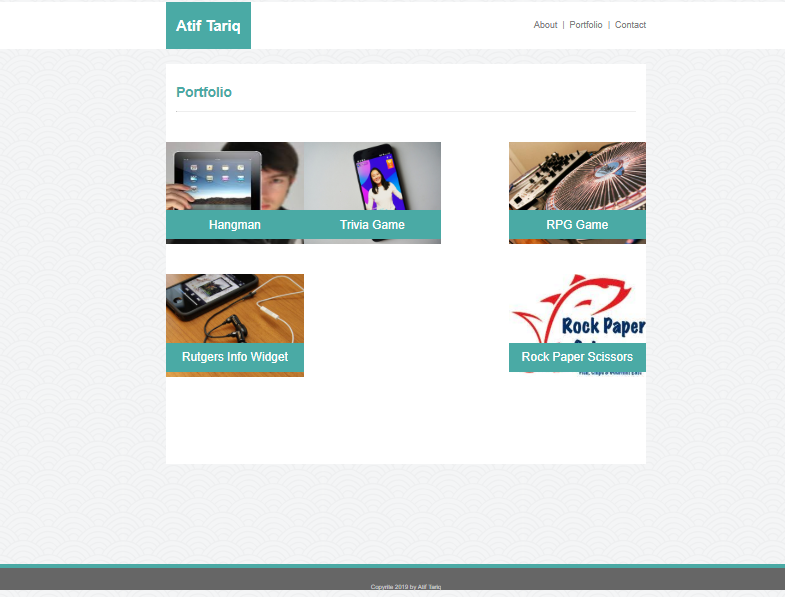
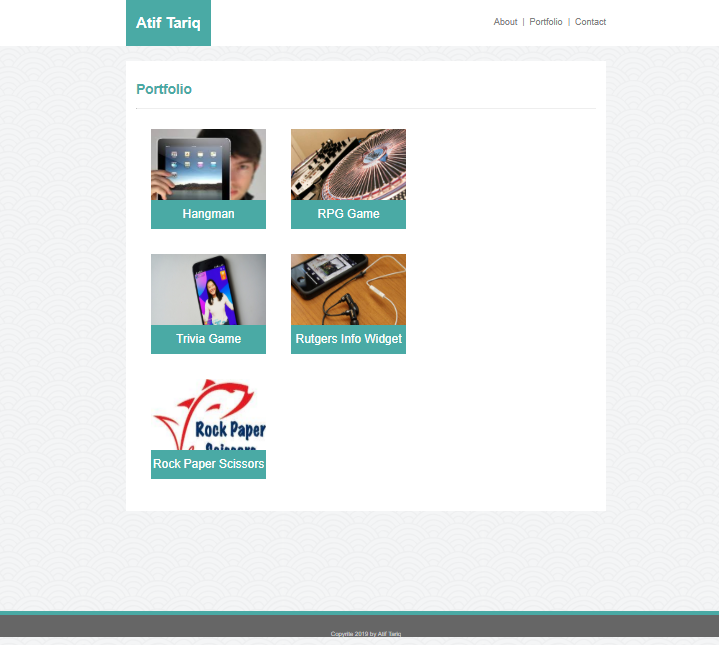
Modified portfolio.html and style,css

diff --git a/portfolio.html b/portfolio.html
@@ -2,7 +2,7 @@
 <html lang="en">
 <head>
 	<title>Atif Basic Portfolio - Portfolio</title>
-    <link rel="stylesheet" type="text/css" href="C:\Users\Hassan\Desktop\Basic-Portfolio\assets\css\style.css">
+
     <link rel="stylesheet" type="text/css" href="assets/css/style.css">
 	
 	<meta name="viewport" content="width=device-width, initial-scale=1, maximum-scale=1">
@@ -52,55 +52,56 @@
                     <hr class="hr-content">  
                     </div>
 
-                    <div class="portfolio-item portfolio-item__left">
-						<a href="http://naptoons.tumblr.com" target="_blank">
-						<img class="portfolio-pic portfolio-link" src="assets/images/hangman.jpg" alt="cartoons">
-						</a>
-						<div class="portfolio-title">
-							<h2 class="h2__portfolio-title">Hangman</h2>
+<!----------------"PORTFOLIO_Group"----------------------> 
+					<div class="portfolio-group"> 
+						<div class="portfolio-item portfolio-item-left">
+							
+							<img class="portfolio-img" src="assets/images/hangman.jpg">
+							
+							<div class="portfolio-title">
+								<h2 class="h2__portfolio-title">Hangman</h2>
+							</div>
+						</div>
+
+						<div class="portfolio-item portfolio-item-right">
+							<img class="portfolio-img" src="assets/images/RPG GAME-1.jpg">
+							
+							<div class="portfolio-title">
+								<h2 class="h2__portfolio-title">RPG Game</h2>
+							</div>
 						</div>
 					</div>
-					<!--here-->
-					<div class="portfolio-item portfolio-item__right">
-						<a href="http://bonesville.tumblr.com" target="_blank">
-						<img class="portfolio-pic portfolio-link" src="assets/images/RPG GAME-1.jpg" alt="artwork">
-						</a>
-						<div class="portfolio-title">
-							<h2 class="h2__portfolio-title">RPG Game</h2>
+<!----------------"PORTFOLIO_Group"----------------------> 
+					<div class="portfolio-group"> 
+						<div class="portfolio-item portfolio-item-left">
+							
+							<img class="portfolio-img" src="assets/images/Trivia Game.jpg">
+							
+							<div class="portfolio-title">
+								<h2 class="h2__portfolio-title">Trivia Game</h2>
+							</div>
+						</div>
+											
+						<div class="portfolio-item portfolio-item-right">
+							<img class="portfolio-img" src="assets/images/Rutgers Info Widget.jpg" >
+							
+							<div class="portfolio-title">
+								<h2 class="h2__portfolio-title">Rutgers Info Widget</h2>
+							</div>
 						</div>
 					</div>
-					<div class="portfolio-item portfolio-item__left">
-						<a href="https://publictransistor.bandcamp.com" target="_blank">
-						<img class="portfolio-pic portfolio-link" src="assets/images/Trivia Game.jpg" alt="band">
-						</a>
-						<div class="portfolio-title">
-							<h2 class="h2__portfolio-title">Trivia Game</h2>
-						</div>
-					</div>
-					<div class="portfolio-item portfolio-item__right">
-						<a href="http://bonesville.tumblr.com" target="_blank">
-						<img class="portfolio-pic portfolio-link" src="assets/images/Rock Paper Scissor.jpg" alt="artwork">
-						</a>
+
+<!----------------"PORTFOLIO_Group"----------------------> 
+					<div class="portfolio-group"> 
+						<div class="portfolio-item portfolio-item-left">
+						<img class="portfolio-img" src="assets/images/Rock Paper Scissor.jpg">
+					
 						<div class="portfolio-title">
 							<h2 class="h2__portfolio-title">Rock Paper Scissors</h2>
 						</div>
 					</div>
-					<div class="portfolio-item portfolio-item__left">
-						<a href="https://itunes.apple.com/us/artist/sweet-bump-it/id720446841" target="_blank">
-						<img class="portfolio-pic portfolio-link" src="assets/images/Rutgers Info Widget.jpg" alt="band">
-						</a>
-						<div class="portfolio-title">
-							<h2 class="h2__portfolio-title">Rutgers Info Widget</h2>
-						</div>
-					</div>
+				
 				</div>
-
-
-
-
-
-
-
 
                  </div>
              </section>

diff --git a/assets/css/style.css b/assets/css/style.css
@@ -1,6 +1,6 @@
 
 body {
-	background-image: url("C:/Users/Hassan/Desktop/atifcoding/images/background.png");
+	background-image: url("C:/Users/Hassan/Desktop/Basic-Portfolio/assets/images/background.png");
 	height: 740px;
 
 }
@@ -150,18 +150,7 @@ button {
 .portfolio-middle-wrap{
     margin: auto;
     width: 960px;
-	height: 800px;
-}
-
-.portfolio-item__right {
-    float: right;
-}
-
-.portfolio-item {
-    position: relative;
-    width: 275px;
-    height: 205px;
-    margin: 30px 0px 30px 0px;
+	height: 900px;
 }
 
 .standard-text {
@@ -174,16 +163,13 @@ a {
     text-decoration: none;
 }
 
-.portfolio-pic {
-    width: 100%;
-    height: 100%;
-}
 
 .h2__portfolio-title {
     color: #ffffff;
     font-weight: normal;
     line-height: 2;
-	margin: 5px 0px 5px 0px;
+    margin: 5px 0px 5px 0px;
+    
 }
 
 h2 {
@@ -192,17 +178,37 @@ h2 {
 
 .portfolio-title {
     position: absolute;
-    bottom: 10px;
-    width: 100%;
+    width:230px;
+    bottom: 30px;
     text-align: center;
     background-color: #4aaaa5;
 }
 
-.portfolio-item__left {
+.portfolio-group{
+
+    width:100%;
+    height: 230px;
+}
+
+.portfolio-item{
+    width:200px;
+    height: 230px;
+    position: relative;
+}
+
+
+
+.portfolio-img{
+    width:230px;
+    height:200px;
+}
+
+.portfolio-item-left{
     float: left;
+    margin: 10px 0px 10px 50px;
 }
 
-.portfolio-item__right {
+.portfolio-item-right{
     float: right;
+    margin: 10px 430px 10px 0px;
 }
-
